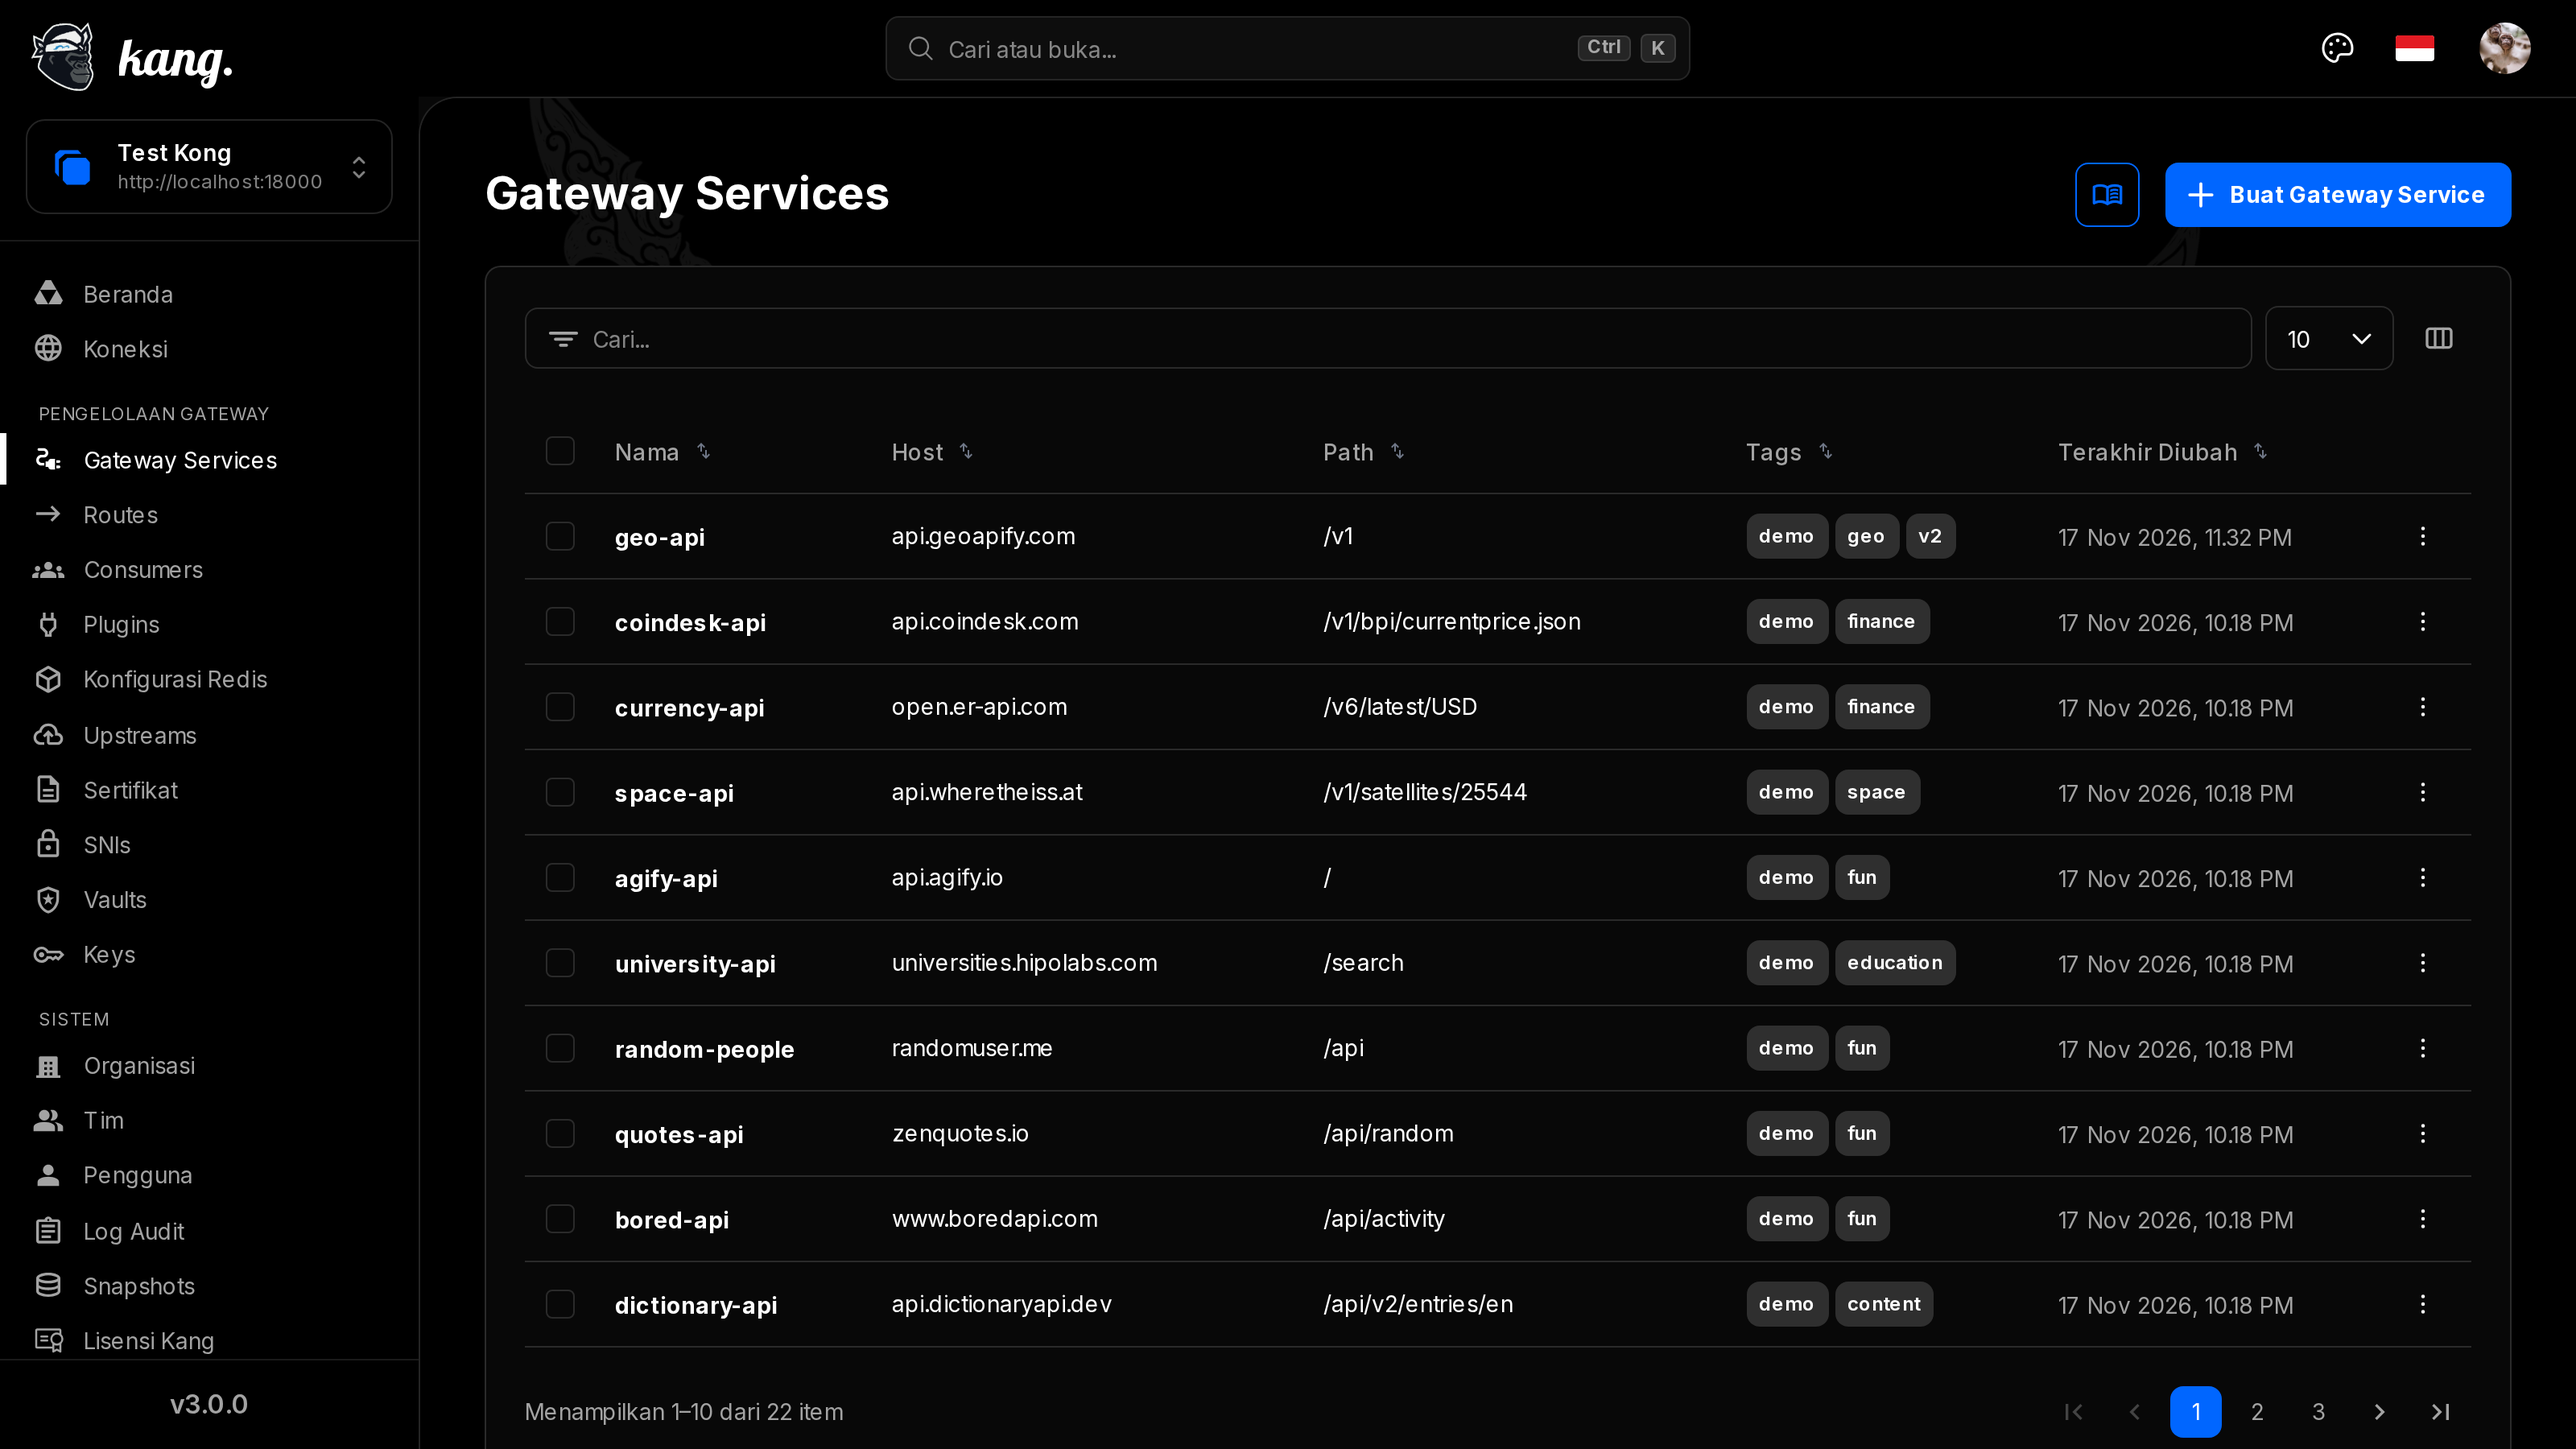
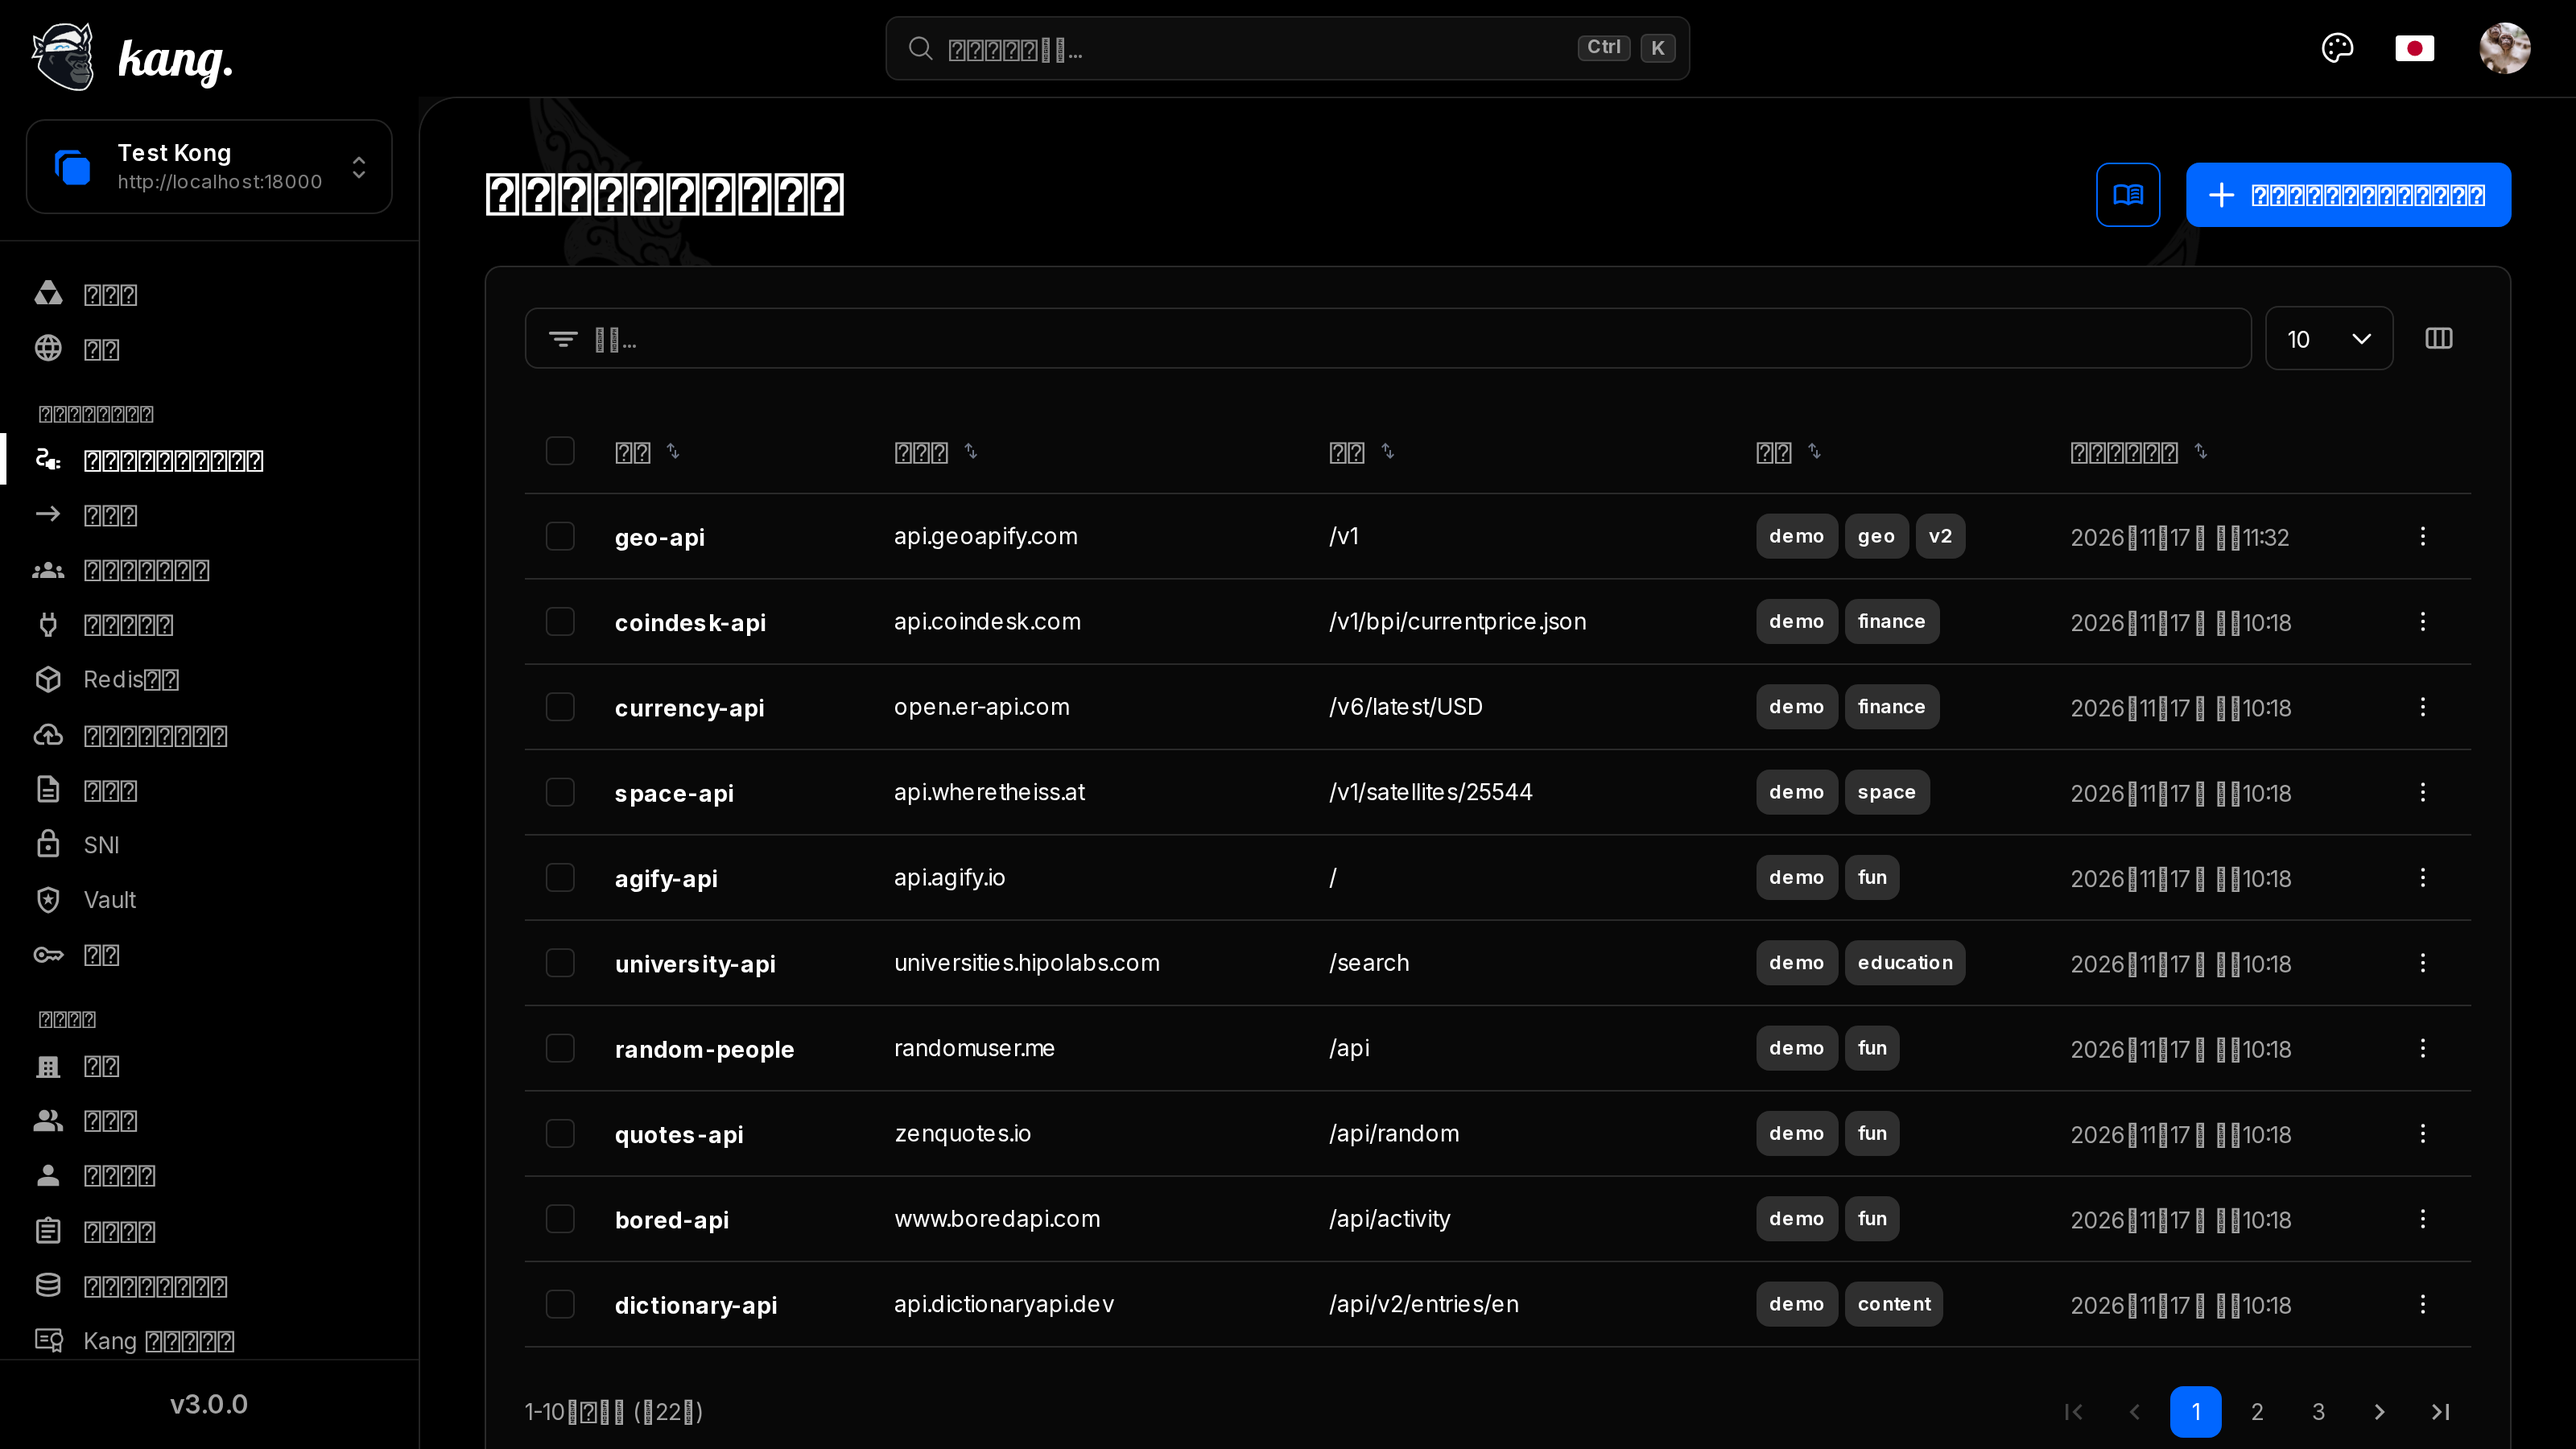
docs: record real create flows, four languages, and data-backed analytics shots
- Tour GIF now shows real UI flows: creating a consumer and a service through
  the forms, opening the analytics tab of the service with actual traffic
  (cat-facts), and switching the interface language.
- Language gallery extended to Bahasa Indonesia, Español, Français, 日本語.
- New gallery rows for the created consumer/service and audit logs.

diff --git a/README.md b/README.md
@@ -38,6 +38,10 @@ This is Kang's public home for installation files and documentation.
 | --- | --- | --- |
 | ![Organizations](screenshots/21-organizations.png) | ![Teams](screenshots/22-teams.png) | ![Users](screenshots/13-users.png) |
 
+| Consumers | Audit Logs | Create service |
+| --- | --- | --- |
+| ![Consumers](screenshots/28-consumer-created.png) | ![Audit Logs](screenshots/12-audit-logs.png) | ![Create service](screenshots/29-service-created.png) |
+
 **Themes** — Classic, Gold, Black & Blue, and Black & Gold:
 
 | Classic | Gold | Black & Blue | Black & Gold |
@@ -46,9 +50,9 @@ This is Kang's public home for installation files and documentation.
 
 **Languages** — the interface is fully translated; switch it any time from the header:
 
-| Bahasa Indonesia | 日本語 |
-| --- | --- |
-| ![Bahasa Indonesia](screenshots/23-bahasa-indonesia.png) | ![日本語](screenshots/25-japanese.png) |
+| Bahasa Indonesia | Español | Français | 日本語 |
+| --- | --- | --- | --- |
+| ![Bahasa Indonesia](screenshots/23-bahasa-indonesia.png) | ![Español](screenshots/26-espanol.png) | ![Français](screenshots/27-francais.png) | ![日本語](screenshots/25-japanese.png) |
 
 <details>
 <summary>More screenshots</summary>
